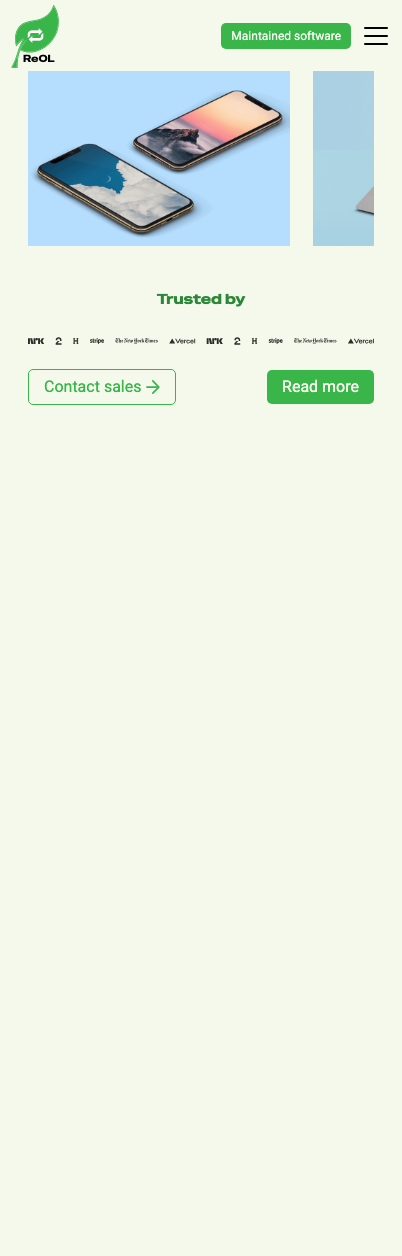
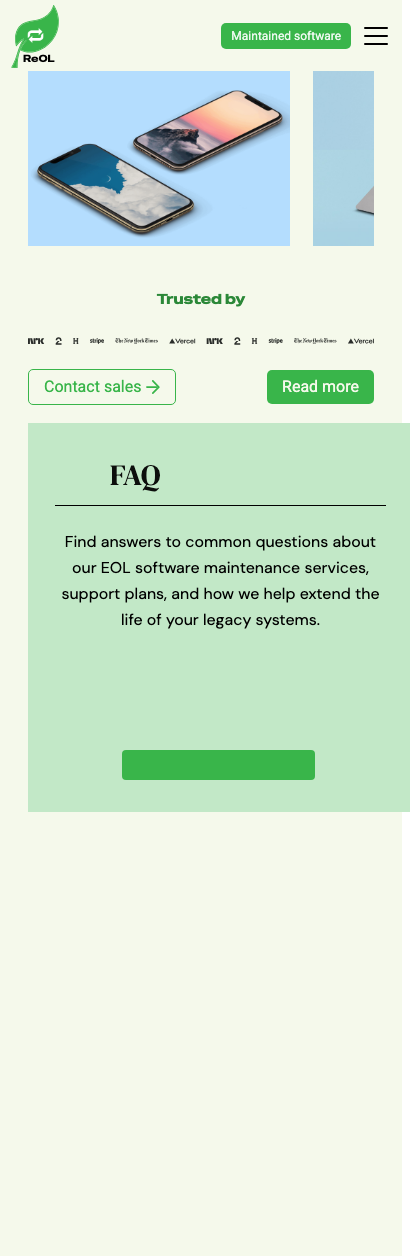
feat: integrate InfoCard into landing page

diff --git a/app/home/main.tsx b/app/home/main.tsx
@@ -2,6 +2,7 @@ import Header from "./components/header";
 import Carousel from "./components/carousel";
 import TrustedBy from "./components/trusted-by";
 import ButtonPair from "./components/button-pair";
+import InfoCard from "./components/info-card";
 
 function LandingPage() {
   return (
@@ -11,6 +12,10 @@ function LandingPage() {
         <Carousel />
         <TrustedBy />
         <ButtonPair />
+        <InfoCard
+          title="FAQ"
+          body="Find answers to common questions about our EOL software maintenance services, support plans, and how we help extend the life of your legacy systems."
+        />
       </main>
     </div>
   );